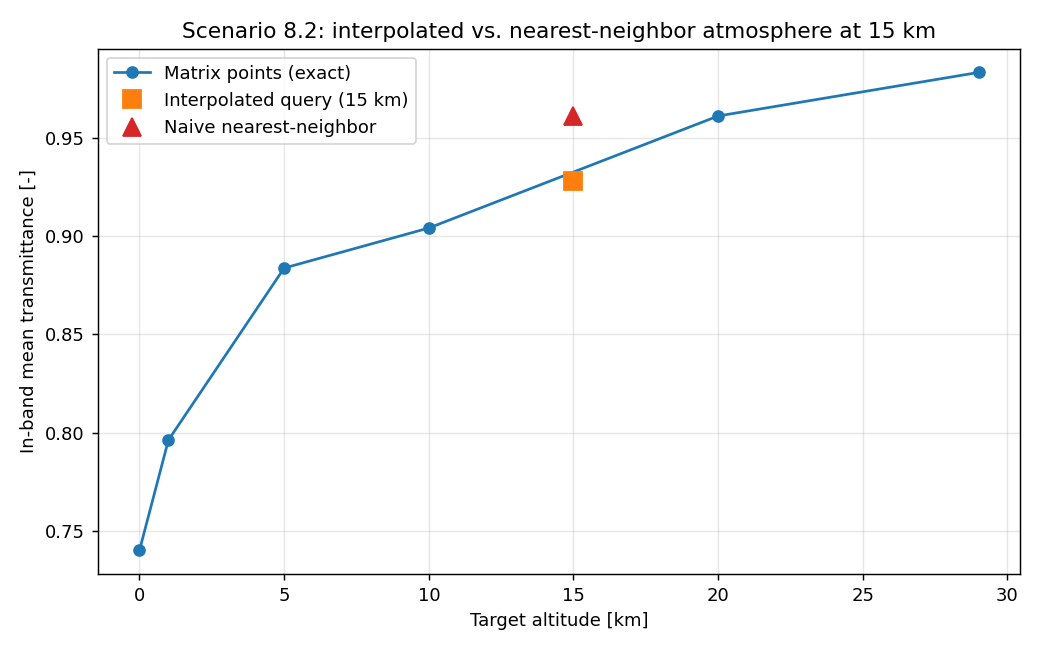
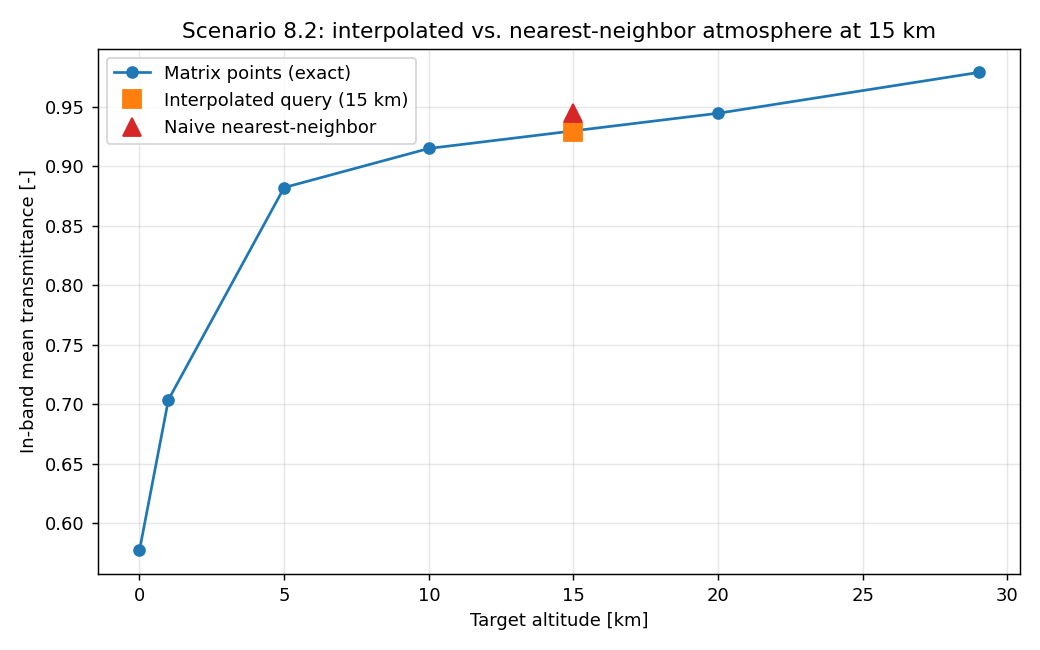
docs(scenarios): CU-176 — refresh 8.2 (target-altitude interpolation) vs post-boost library
The boost-ladder library rebuild (real H5 downwelling refolded into the
midlat_summer families) shifted the altitude_ladder_stratospheric transmittances,
most at low altitude (0 km tau 0.7403->0.5774, 1 km 0.7963->0.7039; aloft nearly
flat). Interpolated 15 km tau 0.9280->0.9291. NN error +3.5%->+1.7% tau, +0.9%->
+0.7% SNR; dropped a stale cross-reference to 8.1's NN error. Method-demonstration
conclusion (interpolation beats nearest-neighbor in the widest gap) stands.

diff --git a/scenarios/08_interpolation_demonstrations/8.2_target_altitude_interpolation/walkthrough.md b/scenarios/08_interpolation_demonstrations/8.2_target_altitude_interpolation/walkthrough.md
@@ -19,21 +19,21 @@ to show the tool generalizes.
 
 | Target altitude | In-band transmittance |
 |---|---|
-| 0 km | 0.7403 |
-| 1 km | 0.7963 |
-| 5 km | 0.8837 |
-| 10 km | 0.9040 |
-| 15 km, **interpolated** | **0.9280** |
-| 20 km | 0.9610 |
-| 29 km | 0.9831 |
+| 0 km | 0.5774 |
+| 1 km | 0.7039 |
+| 5 km | 0.8822 |
+| 10 km | 0.9151 |
+| 15 km, **interpolated** | **0.9291** |
+| 20 km | 0.9447 |
+| 29 km | 0.9790 |
 
 - **Naive nearest-neighbor (20 km) transmittance error vs. interpolated:
-  +3.5%** — noticeably larger than 8.1's zenith-angle case (−1.1%),
-  because this ladder's spacing is uneven and coarse right where the
-  query falls (10→20 km is a 10 km gap, the widest in the ladder) —
+  +1.7%** — the ladder's spacing is uneven and coarse right where the
+  query falls (10→20 km is a 10 km gap, the widest in the ladder), so the
+  nearest matrix point (20 km) still misses the true 15 km transmittance —
   exactly the situation where nearest-neighbor selection is weakest and
   interpolation earns its keep.
-- **Full-chain SNR error: +0.9%.** Smaller than the transmittance error
+- **Full-chain SNR error: +0.7%.** Smaller than the transmittance error
   for the same reason as scenario 6.2 found — SNR depends on the
   extended-scene target/background contrast, which partially cancels
   atmosphere effects that are common to both terms.
